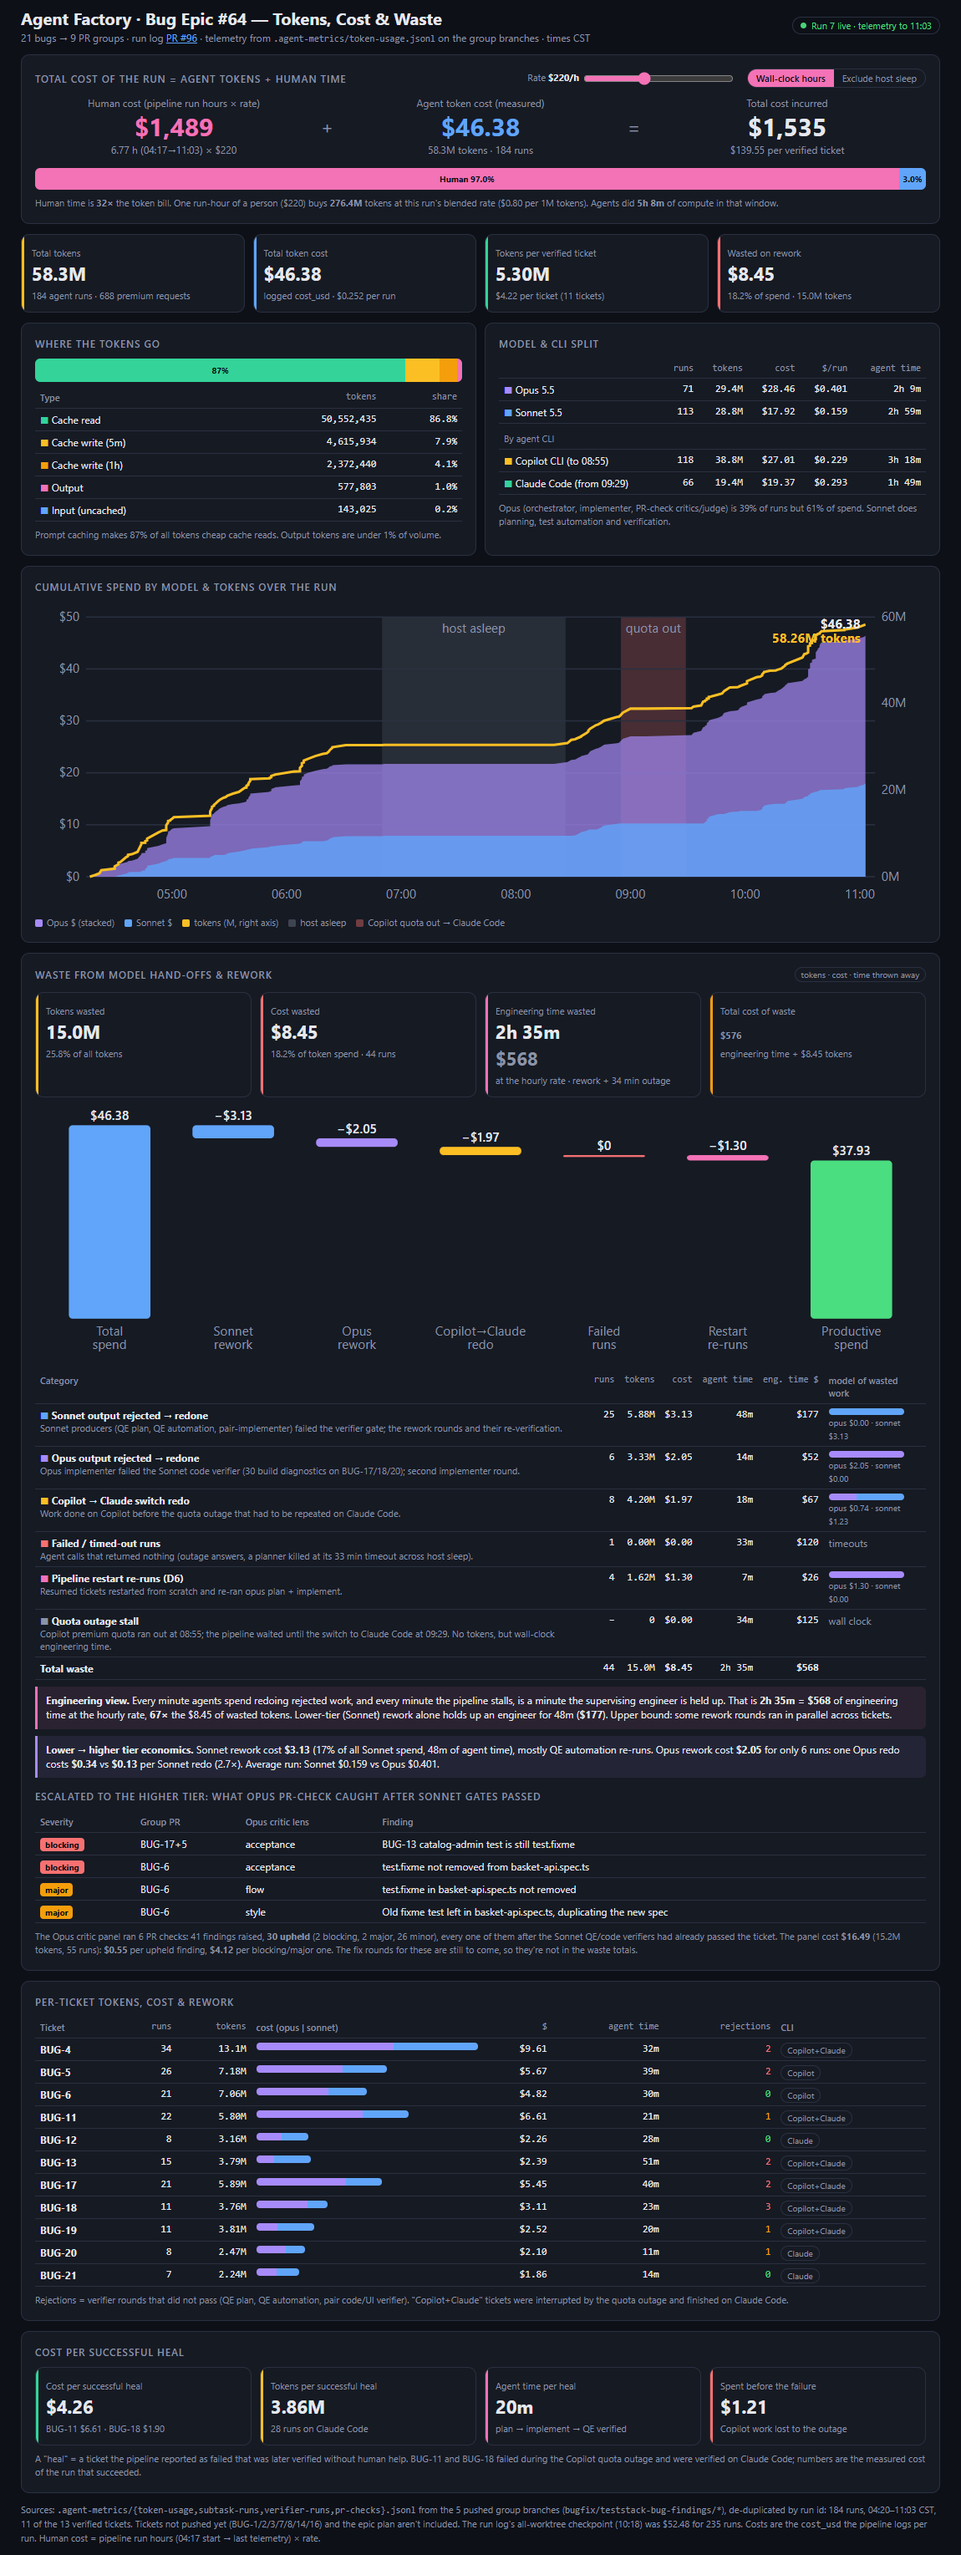
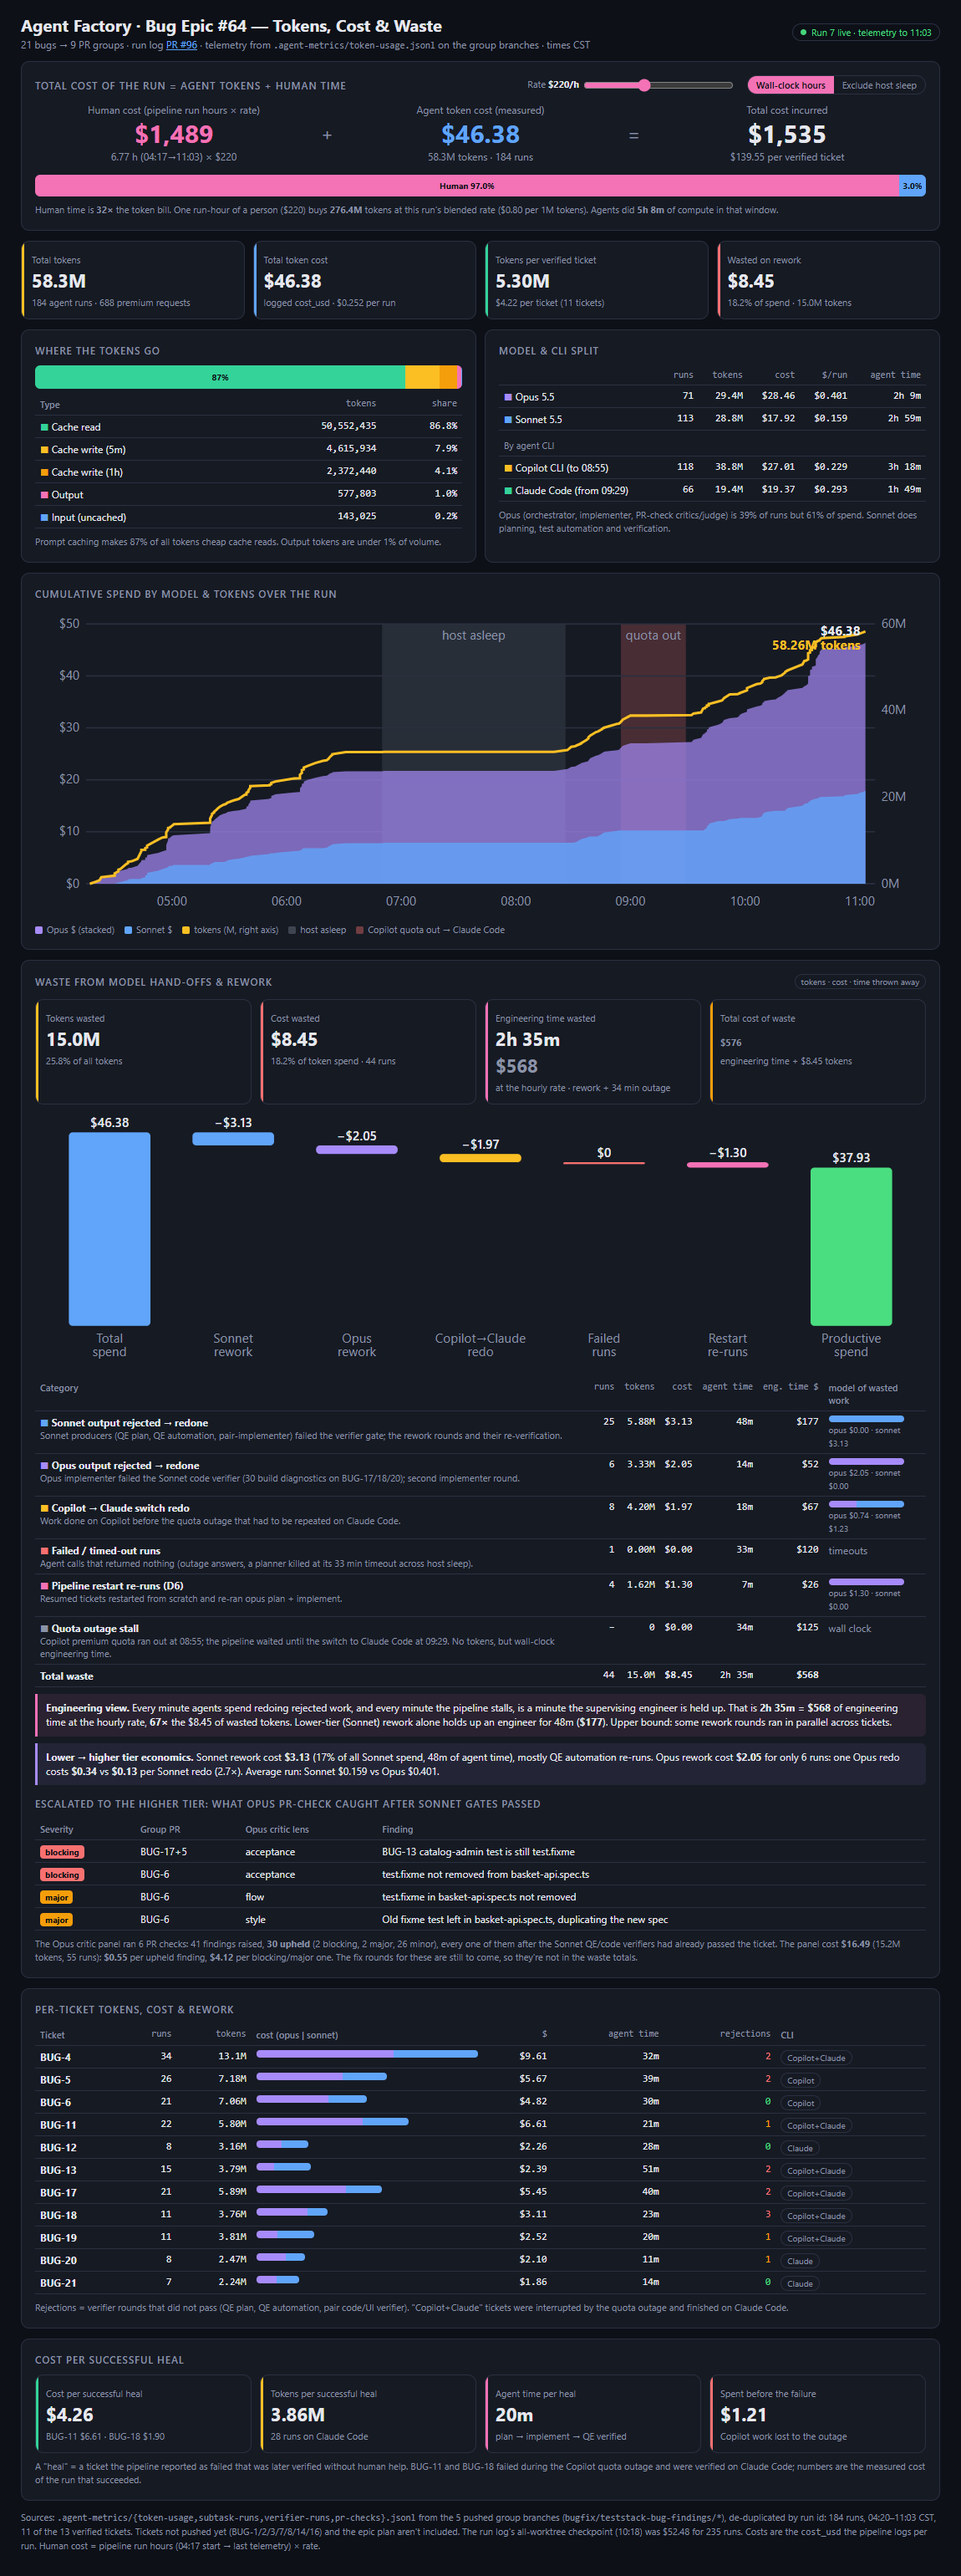
Give the page a dark background so text is readable in Edge

diff --git a/index.html b/index.html
@@ -12,6 +12,9 @@
   --opus:#a78bfa;--sonnet:#60a5fa;
 }
 *{box-sizing:border-box}
+html{background:#0d1017;color-scheme:dark}
+body{background:#0d1017;padding:16px 12px 24px}
+a{color:#60a5fa}
 body{margin:0;color:var(--fg);font-family:var(--font-sans,system-ui,Segoe UI,sans-serif);font-size:13px}
 .wrap{max-width:1100px;margin:0 auto}
 h1{font-size:20px;margin:0 0 2px}
